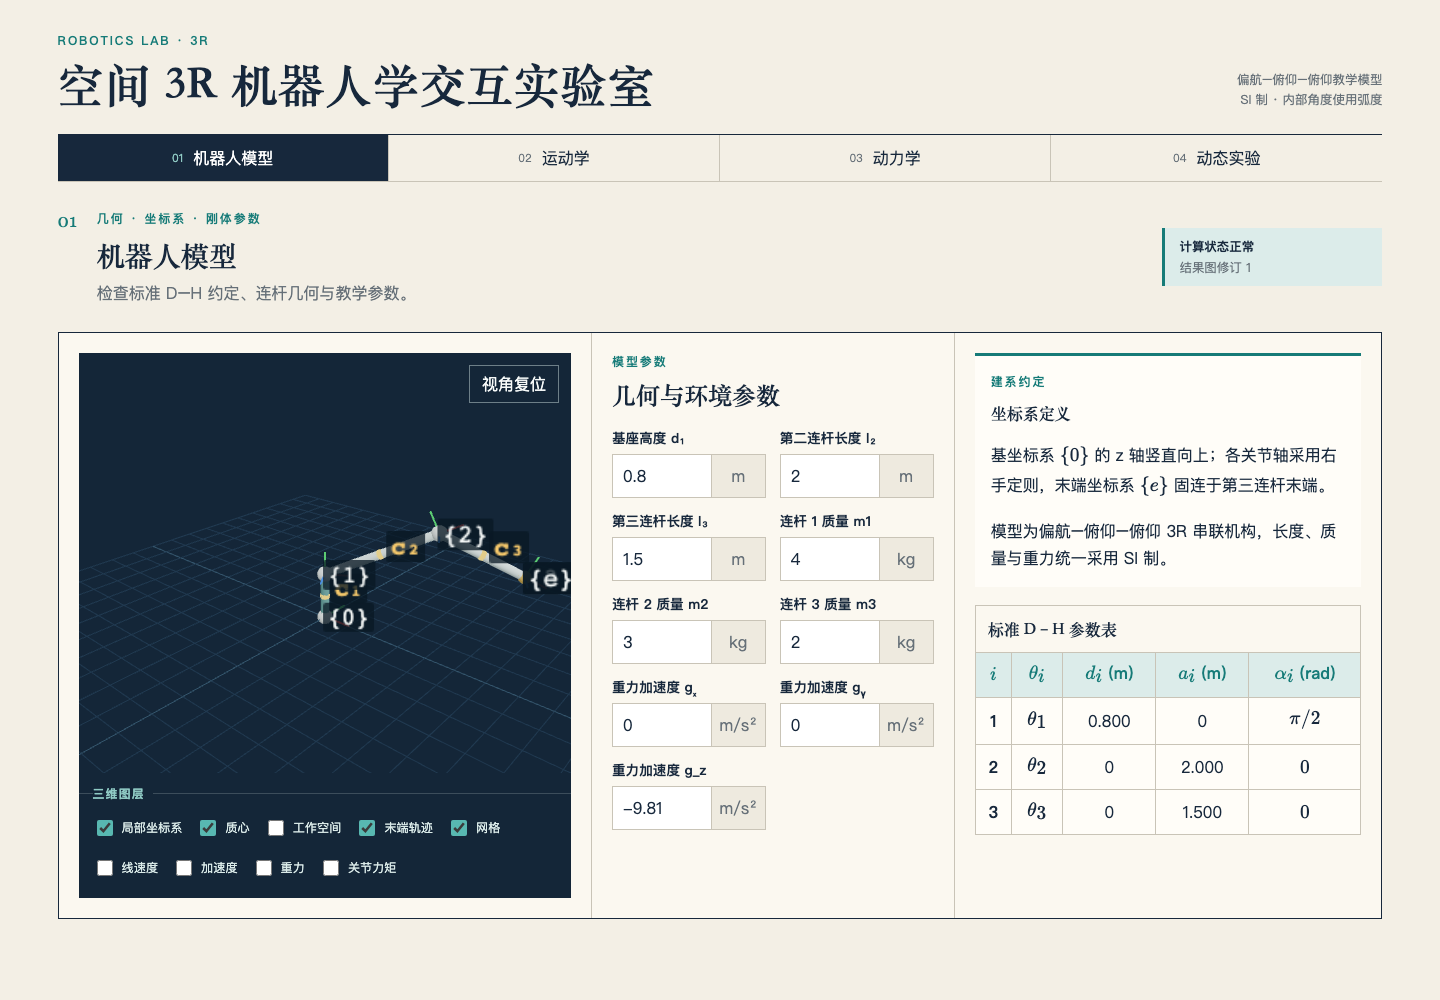
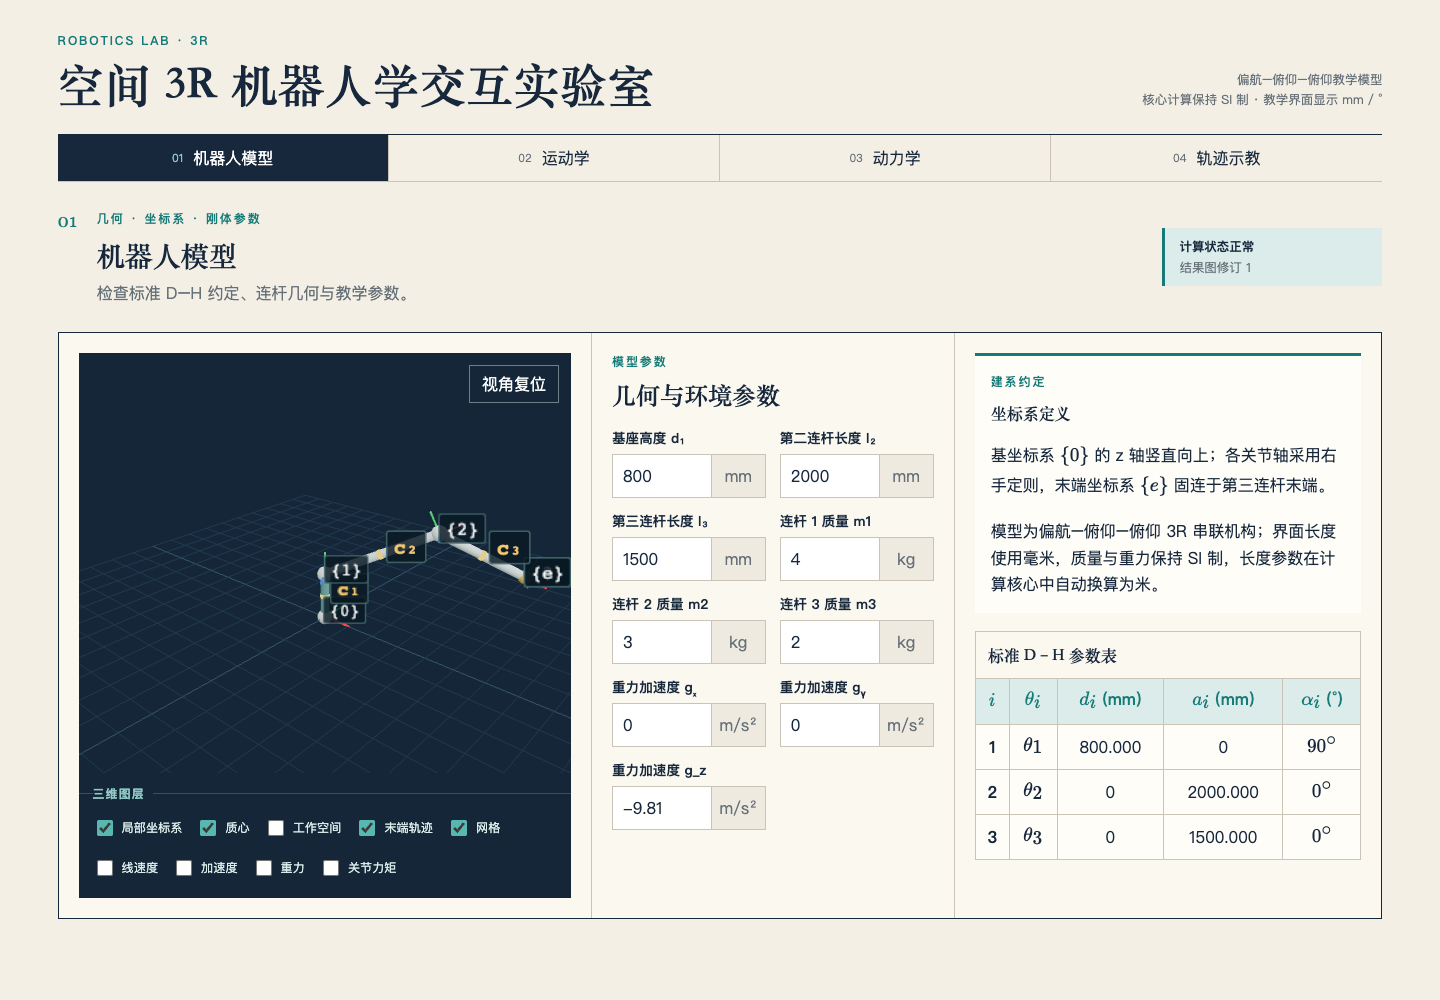
docs: refresh README and mark dynamics incomplete

diff --git a/README.md b/README.md
@@ -2,15 +2,17 @@
 
 一个无需登录、完全在浏览器本地运行的中文机器人学教学应用。它围绕偏航–俯仰–俯仰空间 3R 串联机器人，将 3D 机构、公式、矩阵与时间响应放在同一个可编辑工作台中。
 
-在线演示：[GitHub Pages](https://zaowenchen.github.io/planar-2r-simulator/)（仓库启用 Pages 后可匿名访问）
+在线演示：[GitHub Pages](https://zaowenchen.github.io/planar-2r-simulator/)
+
+技术栈：React、TypeScript、Three.js / React Three Fiber、Zustand、KaTeX 与 Plotly。
 
 ![空间 3R 机器人学交互实验室预览](docs/robotics-lab-preview.png)
 
 ## 学习模块
 
 - **机器人模型**：以毫米编辑连杆几何，查看标准 D–H 表、质量、重力和坐标系约定。
-- **运动学**：以度和毫米联动关节角与末端位姿；17 步教学链明确区分 D–H 正运动学、解析几何逆运动学、正运动学回代和几何雅可比，并用奇异值、条件数、Yoshikawa 可操作度与逆条件数解释位置灵巧度。三维场景同步展示世界/连杆/末端坐标系、D–H 四段变换、工作平面、肘上/肘下幽灵构型、回代误差和姿态差异，二维图负责解释三角形关系。
-- **动力学**：编辑质量、质心、惯量、重力与粘性摩擦，检查惯性矩阵、科氏项、重力项、力矩、能量和功率。
+- **运动学**：以度和毫米联动关节角与末端位姿；15 步教学链由 6 步 D–H 正运动学、5 步解析几何位置逆运动学（含正运动学回代）和 4 步几何雅可比组成，并用奇异值、条件数、Yoshikawa 可操作度与逆条件数解释位置灵巧度。三维场景同步展示世界/连杆/末端坐标系、D–H 四段变换、工作平面、肘上/肘下幽灵构型、回代误差和姿态差异，二维图负责解释三角形关系。
+- **动力学（未完成）**：当前可编辑质量、质心、惯量、重力与粘性摩擦，并查看惯性矩阵、科氏项、重力项、力矩、能量和功率；该模块仍处于开发阶段，结果仅用于教学展示。
 - **轨迹示教**：像使用机器人示教器一样通过关节 JOG 记录 P1、P2 等点位，创建关节空间 PTP 指令，用五次多项式或梯形速度生成轨迹；大尺寸 3D、数学公式、归一化多项式与 $q/\dot q/\ddot q$ 曲线共享时间轴，可导出 CSV。
 
 ## 公式速览
